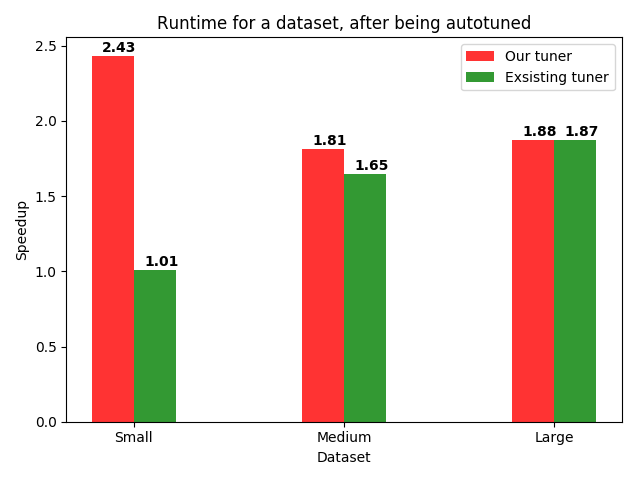
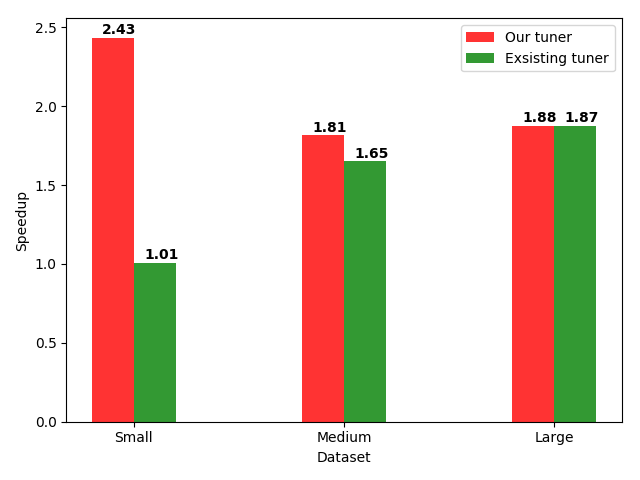
update

diff --git a/report/GottaGoFast.tex b/report/GottaGoFast.tex
@@ -4,14 +4,30 @@ existing autotunner for Futhark \cite{oldtune}, which was based on OpenTunner
 \cite{opentunner}. The existing autotunner uses hill-climbing techniques, on a
 filtered set of possible threshold settings, as opposed to ours, that perform
 an exhaustive search. We will be comparing the existing autotunner to ours,
-with executing without tuning being the baseline. 
-%the following should maybebe left out
-Our aim is not to run faster than the existing autotunner, but see if we pick a
-different execution path, than it does, since it is not guaranteed to pick the
-best path.
+with executing without tuning being the baseline. We benchmark on four programs \cite{ppopp}. When autotuning we use Futharks build in benchmarking tool \texttt{futhark bench}\footnote{The documentation for \texttt{futhark bench} can be found here \url{https://futhark.readthedocs.io/en/latest/man/futhark-bench.html}}. \texttt{futhark bench} defaults to executing each dataset ten times and gives back the average. Along with those ten times, we execute the \texttt{bench} five times in creating our graphs, this ends up in fifty runs for each dataset, we do this to avoid deviation in the results.  
 
-We have a few programs we will be benchmarking, all from \cite{ppopp}, and we
-will autotune with different configurations of datasets.
+We have benchmarked on a Ubuntu 18.04 system with a \textbf{GeForce GTX 1050 4 GB} gpu, and with the NVIDIA driver version: 396.54.  
+
+\paragraph{nn and backprop}
+For the \texttt{nn} and \texttt{backprop} program we have two datasets for each \texttt{D1, D2} and \texttt{H1, H2} respectively, with corresponding training sets. 
+\begin{figure}[h]
+	\centering
+	\subfloat[The result for autotuning the \textit{nn} program, with no tuning being the baseline.]{
+	\centering
+	\includegraphics[width=.45\textwidth]{../benchmarks/nn.png}
+	\label{nn}}
+	\hspace{5mm}
+	\subfloat[The result for autotuning the \textit{backprop} program, with no tuning being the baseline.]{
+	\centering
+	\includegraphics[width=.45\textwidth]{../benchmarks/backprop.png}
+	\label{backprop}}
+	\caption{Benchmark for \texttt{nn} and \texttt{backprod}}
+	\label{NNandBackprop}
+\end{figure}
+In Figure \ref{nn} we clearly see that our autotuner produced a set of thresholds that improved \texttt{D2} massively. However \texttt{D1} slowed down a tiny bit. We did see that both our and the existing autotuner, both were as fast as no tuning, on the training data 
+%maybe the following does not belong here
+so the training data for \texttt{D1} might not be representative of \texttt{D1}. In Figure \ref{backprop} we see that the neither dataset was affected by our tuning, this would lead us to believe that the default values for the thresholds is a good choice for this program with the datasets \texttt{H1, H2}.
+
 \paragraph{LocVolCalib}
 There are three datasets for the \texttt{LocVolCalib} program, \textit{small,
 medium} and \textit{large}, as well as a training set for each size.
@@ -21,10 +37,10 @@ In Figure \ref{LocVolCalib-SmallMediumLarge}, we have autotunned for the
 three. We plot the speedup, or slow down, compared to executing without
 tuning\footnote{Where the default value for thresholds is $2^{15}$, which is
 quite high, meaning that it will favor large datasets}.
-\begin{figure}
+\begin{figure}[h]
 	\centering
-	\includegraphics[width=.7\textwidth]{../benchmarks/LocVolCalibSML.png}
-  \caption{The result for autotuning \textit{LocVolCalib} program, with no tuning being the baseline.}
+	\includegraphics[width=.7\textwidth]{../benchmarks/LocVolCalib.png}
+  \caption{The result for autotuning the \textit{LocVolCalib} program, with no tuning being the baseline.}
 	\label{LocVolCalib-SmallMediumLarge}
 \end{figure}
 In Figure \ref{LocVolCalib-SmallMediumLarge} we see that on all datasets the
@@ -36,5 +52,12 @@ time it takes for each of the auto-tuners to tune the program. For the existing
 auto-tuner it took around 17 minutes, whereas for our auto-tuner it took a
 little under 23 hours, which is obviously far to slow to be of use in almost
 all cases. 
+
+\begin{figure}[H]
+	\centering
+	\includegraphics[width=.7\textwidth]{../benchmarks/LocVolCalibAll.png}
+  \caption{The result for autotuning the \textit{LocVolCalib} program, for different combinations of datasets, with no tuning being the baseline.}
+	\label{LocVolCalibAll}
+\end{figure}
 
 %It is important to note, that \textit{large} is about XXX larger than \textit{medium}, while \textit{medium} is only XXX larger than \textit{small}

diff --git a/report/FutureWork.tex b/report/FutureWork.tex
@@ -1,6 +1,6 @@
 \section{Reflections \& Future work (Very unfinished)}
 
-Our autotuner does what it's supposed to, performs and exhaustive search of all
+Our autotuner does what it's supposed to, performs an exhaustive search of all
 possible combinations of code versions in the given datasets and returns the
 one that performs the best. This means that in most cases the results it gives
 are better than the current autotuner. The problem it has is that to perform an
@@ -9,6 +9,9 @@ very quickly as you add more datasets. In the \texttt{LocVolCalib} program the
 number of combinations that needs to be checked for one dataset is 13, while
 the number of combinations that needs to be checked when tune for all
 three datasets is 5463. 
+
+An oversight we made in our implementation was to not stop an execution, if it was slower than a previous one, so if we had a path $e_0$ which had a running time of $10$ seconds, and we were actively checking path $e_1$, then we should stop the execution of $e_1$ if it exceeds $10$ seconds. This is a fairly easy optimization to make and could give a big speedup. 
+%vi kunne skrive videre på dette med noget execution order og worst og best case.   
 
 \subsection{Synthetic data}
 It's clear that our autotuner is fast if the number of datasets are low, so a
@@ -19,7 +22,7 @@ instead of just leaving out datasets. The possible solution we propose is that
 it might be possible to create 'synthetic' datasets that, when tuned on,
 results in threshold values that achieves a good performance on all datasets of
 interest. 
-This idea can be somewhat seen in our results on \texttt{LocVolCalib} (See \ref{ALLDATALVC})
+This idea can be somewhat seen in our results on \texttt{LocVolCalib} (See \ref{LocVolCalibAll})
 where training only on the \textit{medium} training  dataset resulted in good
 performances on \textit{medium} and \textit{small} test datasets. This training
 did not result in a good performance for the \textit{large} test dataset, but

diff --git a/report/Conclusion.tex b/report/Conclusion.tex
@@ -1,0 +1,2 @@
+\section{Conclusion}
+Our autotuner works, it finds all the possible combinations of paths for a program, with some amount of datasets, and returns the best one for all datasets. With an exhaustive search comes an exponential amount of paths in the worst case, this means that our autotuner is slow on multiple datasts. We have put forth two ideas for future work, and a optimization to the current implementation.

diff --git a/benchmarks/backprop.py b/benchmarks/backprop.py
@@ -42,7 +42,7 @@ label='Exsisting tuner')
 
 plt.xlabel('Dataset')
 plt.ylabel('Speedup')
-plt.xticks(index+bar_width/2, ('D1', 'D2'))
+plt.xticks(index+bar_width/2, ('H1', 'H2'))
 plt.legend()
 for i, v in enumerate(our):
     ax.text(i, v+v/50, str(round(v,2)), color='black', va='center', fontweight='bold')

diff --git a/benchmarks/nn.py b/benchmarks/nn.py
@@ -40,7 +40,6 @@ label='Exsisting tuner')
 
 plt.xlabel('Dataset')
 plt.ylabel('Speedup')
-plt.title('Runtime for a dataset, after being autotuned')
 plt.xticks(index+bar_width/2, ('D1', 'D2'))
 plt.legend()
 for i, v in enumerate(our):

diff --git a/benchmarks/LocVolCalib.py b/benchmarks/LocVolCalib.py
@@ -45,7 +45,6 @@ label='Exsisting tuner')
 
 plt.xlabel('Dataset')
 plt.ylabel('Speedup')
-plt.title('Runtime for a dataset, after being autotuned')
 plt.xticks(index + bar_width/2, ('Small', 'Medium', 'Large'))
 plt.legend()
 

diff --git a/report/main.tex b/report/main.tex
@@ -36,6 +36,7 @@
 \input{Design}
 \input{GottaGoFast}
 \input{FutureWork}
+\input{Conclusion}
 %%%%%%%%%%%%%%%%% End of Report %%%%%%%%%%%%%%%%%%
 \newpage
 \printbibliography
